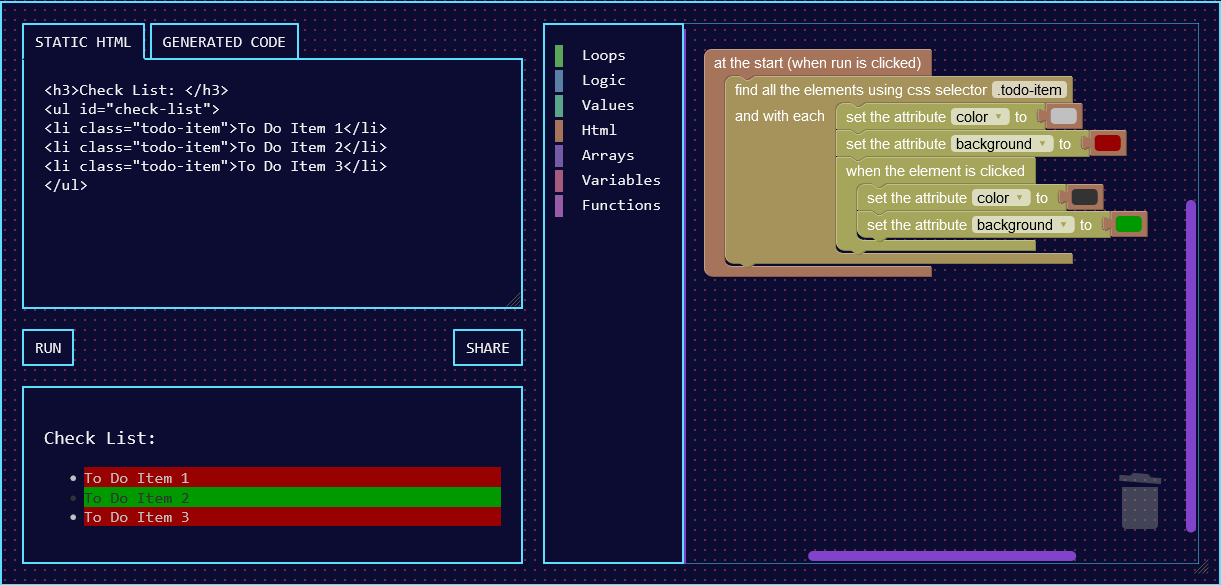
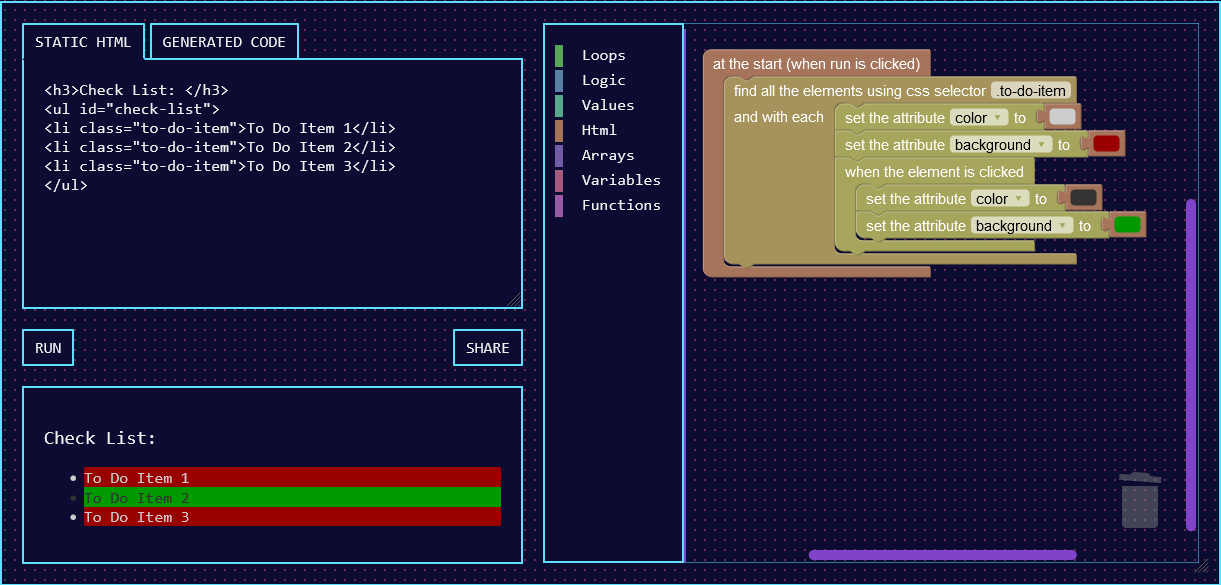
adjusted exercise 23 04

Changed region(s): [[0.5602, 0.0923, 0.9337, 0.4615], [0.1245, 0.2154, 0.3112, 0.3077], [0.4668, 0.9538, 0.9959, 0.9846]]

diff --git a/index.html b/index.html
@@ -257,7 +257,7 @@
         </section>
         <section class="subsubheader">
             <h3>✅ Solution 23 Exercise 4 - Create a check list</h3>
-            <a href="https://blocks.codeyourfuture.io/share.html?v=(%27j!(%27blocks!(%27languageVersion!0~blocks!%5B(%27type!%27on_start%27~id!%271U(J3%2BBr)xNwo7q4_)H_%27~x!27~y!39~fields!(%27TEXT1!%27at%20the%20start%20%7Bwhen%20run%20is%20clicked%7D%C2%87HANDLER%C2%86d%40Vsorf%7D%27%3A%7B%25YDNTJ%5Dc9w%C2%83%C2%81im%7C%7ChW%3AKd2rywceaaH7A%C2%85c%7Fer%27~id!%27%60KUt%3AgzLUCO.%2Cz1b%7CH%2Bo%C2%84c0c0c0%27))))~next%C2%81%24%7Bb%2CNQbaMQM%7CZI%24%7BeOGu%C2%85backgroundC%7Fer%27~id!%27%7Cfl%7DI%5D%7Cy%2B%23O0AETF.BCq%C2%84990000%27)))))))))~next%C2%86n4LW2UnVDy(%2C%27q%5B_Z-QLb%C2%83%22element_clicked_current%27~id!%275.Itqo5w%7CL%40n%5DfR2J%5B%5Ea%C2%80TEXT1!%27when%20the%20element%20is%20clicked%C2%87HANDLER%C2%81A%7BocEL0srDpE%7DR%3B%24%25r.Q%C2%85c%7Fer%27~id!%27P%3Dxl%7Bh%2F%60F%2C%27B8G(DYdJ13%C2%84333333%27))))~next%C2%81iQ%3FY%5DS-pnl%7Cbce1s%3FffW%C2%85backgroundC%7Fer%27~id!%27DsU.j*zy%5D44%7B%5EB_%7D%7D%7DzM%C2%84009900%27))))))))))))))))))%5D)~variables!%5B(%27name!%27products%27~id!%27p%5BQD1%2Fm%2F0UEWu.AP8Fij%C2%82add%27~id!%27p%25%5B37jNZ3%3AO%5B%23%5Bxe9o%27%3Au%C2%82ids%27~id!%275a7%2C(.hKEjt%2C%27l%243t%27%3Aa-I%C2%82item%27~id!%27(o%2CC%2BFYk5P_P%2Fs%2BW5qx%3A%C2%82shopping-cart%27~id!%27yU%7D7Tn%2C%276Ar58eEBG%5E_%5E%3D%C2%82array%27~id!%27%2C%27J%3ARLb%7Boj8R3%27%3Ahs4nrnd%C2%82product%27~id!%27r%3DuRUVIdO20v3%7B%3DV%3B(EG%27)%5D)~h!%27%3Ch3%3ECheck%20List%3A%20%3C%2Fh3%3E%5Cn%3Cul%20id%3D%5C%27check-list%5C%27%261%3C%2Fli%262%3C%2Fli%263%3C%2Fli%3E%5Cn%3C%2Ful%3E%27)%22!(%27block!(%27type!%27%26%3E%5Cn%3Cli%20class%3D%5C%27todo-item%5C%27%3ETo%20Do%20Item%20%7Folor%C2%87VALUE%22colour_pick%C2%80%27~fields!(%27%C2%81%22set_attribute%27~id!%27%C2%82%27)%2C(%27name!%27%C2%83%C2%80QUERY!%27.todo-item%C2%87STACK%C2%84%C2%80COLOUR!%27%23%C2%85%C2%80PROPERTY!%27%C2%86%22with_elements_by_selector%27~id!%27%C2%87%27)~inputs!(%27%01%C2%87%C2%86%C2%85%C2%84%C2%83%C2%82%C2%81%C2%80%7F%26%22_share.html?v=('j!('blocks!('languageVersion!0~blocks!%5B('type!'on_start'~id!'1U(J3%2BBr)xNwo7q4_)H_'~x!27~y!39%C2%85TEXT1!'at%20the%20start%20%7Bwhen%20run%20is%20clicked%7D%C2%84HANDLER%C2%83with_elements_by_selector'~id!'d%40Vsorf%7D'%3A%7B%25YDNTJ%5Dc9w'%C2%85QUERY!'.todo-item%C2%84STACK%7Fim%7C%7ChW%3AKd2rywceaaH7A%C2%81c%22er'~id!'%60KUt%3AgzLUCO.%2Cz1b%7CH%2Bo%C2%80c0c0c0'))))~next%7F%24%7Bb%2CNQbaMQM%7CZI%24%7BeOGu%C2%81backgroundC%22er'~id!'%7Cfl%7DI%5D%7Cy%2B%23O0AETF.BCq%C2%80990000'))))~next%C2%83element_clicked_current'~id!'5.Itqo5w%7CL%40n%5DfR2J%5B%5Ea'%C2%85TEXT1!'when%20the%20element%20is%20clicked%C2%84HANDLER%7FA%7BocEL0srDpE%7DR%3B%24%25r.Q%C2%81c%22er'~id!'P%3Dxl%7Bh%2F%60F%2C'B8G(DYdJ13%C2%80333333'))))~next%7FiQ%3FY%5DS-pnl%7Cbce1s%3FffW%C2%81backgroundC%22er'~id!'DsU.j*zy%5D44%7B%5EB_%7D%7D%7DzM%C2%80009900'))))))))))))))))))))%5D)~variables!%5B('name!'products'~id!'p%5BQD1%2Fm%2F0UEWu.AP8Fij%C2%82add'~id!'p%25%5B37jNZ3%3AO%5B%23%5Bxe9o'%3Au%C2%82ids'~id!'5a7%2C(.hKEjt%2C'l%243t'%3Aa-I%C2%82item'~id!'(o%2CC%2BFYk5P_P%2Fs%2BW5qx%3A%C2%82shopping-cart'~id!'yU%7D7Tn%2C'6Ar58eEBG%5E_%5E%3D%C2%82array'~id!'%2C'J%3ARLb%7Boj8R3'%3Ahs4nrnd%C2%82product'~id!'r%3DuRUVIdO20v3%7B%3DV%3B(EG')%5D)~h!'%3Ch3%3ECheck%20List%3A%20%3C%2Fh3%3E%5Cn%3Cul%20id%3D%5C'check-list%5C'%261%3C%2Fli%262%3C%2Fli%263%3C%2Fli%3E%5Cn%3C%2Ful%3E')%22olor%C2%84VALUE%C2%83colour_pick%26%3E%5Cn%3Cli%20class%3D%5C'todo-item%5C'%3ETo%20Do%20Item%20%7F%C2%83set_attribute'~id!'%C2%80'%C2%85COLOUR!'%23%C2%81'%C2%85PROPERTY!'%C2%82')%2C('name!'%C2%83!('block!('type!'%C2%84')~inputs!('%C2%85~fields!('%01%C2%85%C2%84%C2%83%C2%82%C2%81%C2%80%7F%26%22_" target="_blank">Link To Solution</a>
+            <a href="https://blocks.codeyourfuture.io/share.html?v=('j!('blocks!('languageVersion!0~blocks!%5B('type!'on_start'~id!'%3FI%3Fr%24%7B%24%7C7Rvtp%5B4J1OIN'~x!51~y!-656%C2%85TEXT1!'at%20the%20start%20%7Bwhen%20run%20is%20clicked%7D%C2%84HANDLER%C2%83with_elements_by_selector'~id!'%2B5%3Bx%23a%3F%60e%3BzB%40f%2B2rV%24N'%C2%85QUERY!'.to-do-item%C2%84STACK%C2%80%2B%2B_utUD4Lc%7Dbl%2CSn3BmZ%C2%82c%22er'~id!''%3AVckS_%3BVZUy'%3A6((DJvg%3D%C2%81cccccc'))))~next%C2%80vSD'%3Af%3As)UIo6a0K9%2B4C%3B%C2%82backgroundC%22er'~id!'P*5ud5gAl51U%5EdHolzV%7C%C2%81990000'))))~next%C2%83element_clicked_current'~id!'%2C'afT%24%7D9d%7DV)X%7DZ1Ws%3ATv'%C2%85TEXT1!'when%20the%20element%20is%20clicked%C2%84HANDLER%C2%80w%7B2VX1%23MU%5EqJ1PR%5B%2F%60%7D8%C2%82c%22er'~id!'uKE%5E%7BCojqCvS'%3AHXmF%3D%3Ai%C2%81333333'))))~next%C2%80nM%40v'%3A%2C'D%60%7BcU%245'%3AE%3BoH(5%C2%82backgroundC%22er'~id!'dhIzU5%3F%23*(WT%3FeUgf%7B%3FY%C2%81009900'))))))))))))))))))))%5D)~variables!%5B('name!'products'~id!'p%5BQD1%2Fm%2F0UEWu.AP8Fij%26add'~id!'p%25%5B37jNZ3%3AO%5B%23%5Bxe9o'%3Au%26ids'~id!'5a7%2C(.hKEjt%2C'l%243t'%3Aa-I%26toDoItem'~id!'(o%2CC%2BFYk5P_P%2Fs%2BW5qx%3A%26shopping-cart'~id!'yU%7D7Tn%2C'6Ar58eEBG%5E_%5E%3D%26toDoItems'~id!'%2C'J%3ARLb%7Boj8R3'%3Ahs4nrnd%26product'~id!'r%3DuRUVIdO20v3%7B%3DV%3B(EG%26links'~id!'%23%3BUQe-%7D%2CUmE1zKQQ%2B6%25%40%26navigationShowingFlag'~id!'B%2B%2B%40%7CtpS%25oivX%7BN3%3AmXe%26sources'~id!'iJk%2C'dcnT%2C'6ol%2CYCcW%7C%3Ao%26link'~id!'Mt%7Cj.-FMR67iP%7DyAotGA%26array'~id!'KcVQV%5Dv.%40.q5%7BgT%3Fv%2CU4%26innerListVisibileFlag'~id!'pC)%7C%24DX%25%7B%3B5gEs%25v6uM%2F%26innerBlockIsVisible'~id!'tT%2Cj-%3A3rf%2B8)q4)P%2Ff%24%3D')%5D)~h!'%3Ch3%3ECheck%20List%3A%20%3C%2Fh3%3E%5Cn%3Cul%20id%3D%5C'check-list%5C'%7F1%3C%2Fli%7F2%3C%2Fli%7F3%3C%2Fli%3E%5Cn%3C%2Ful%3E%5Cn%5Cn')%22olor%C2%84VALUE%C2%83colour_pick%26')%2C('name!'%7F%3E%5Cn%3Cli%20class%3D%5C'to-do-item%5C'%3ETo%20Do%20Item%20%C2%80%C2%83set_attribute'~id!'%C2%81'%C2%85COLOUR!'%23%C2%82'%C2%85PROPERTY!'%C2%83!('block!('type!'%C2%84')~inputs!('%C2%85~fields!('%01%C2%85%C2%84%C2%83%C2%82%C2%81%C2%80%7F%26%22_" target="_blank">Link To Solution</a>
         </section>
         <section class="image">
             <img src="images/exercise2304.png" alt="">
